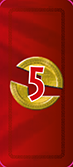
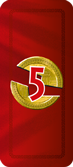
Highres art Military Tokens.

diff --git a/sevenwondersduel_source.css b/sevenwondersduel_source.css
@@ -510,7 +510,6 @@ __     __         _       _     _
 }
 
 .military_token {
-    border-radius: calc(var(--board-scale) * 10px);
     filter: drop-shadow(0px 0px calc(var(--scale) * 1.5px) #000000);
     position: relative;
     /*display: inline-block;*/
@@ -1662,5 +1661,11 @@ __        __              _
     }
     .pawn {
         background-image: url('img/tmp_conflict_pawn@2X.png');
+    }
+    .military_token_2 {
+        background-image: url('img/tmp_military_token_2@2X.png');
+    }
+    .military_token_5 {
+        background-image: url('img/tmp_military_token_5@2X.png');
     }
 }
